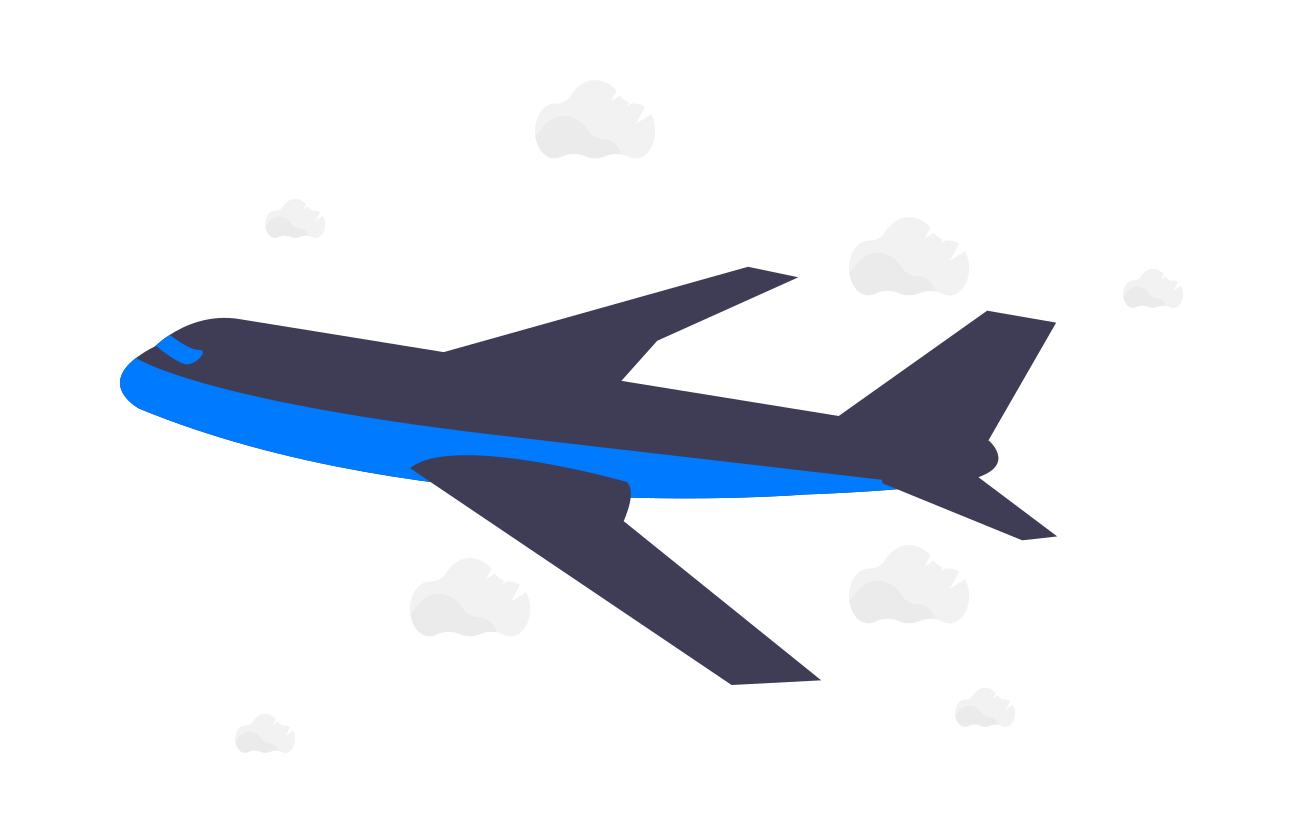
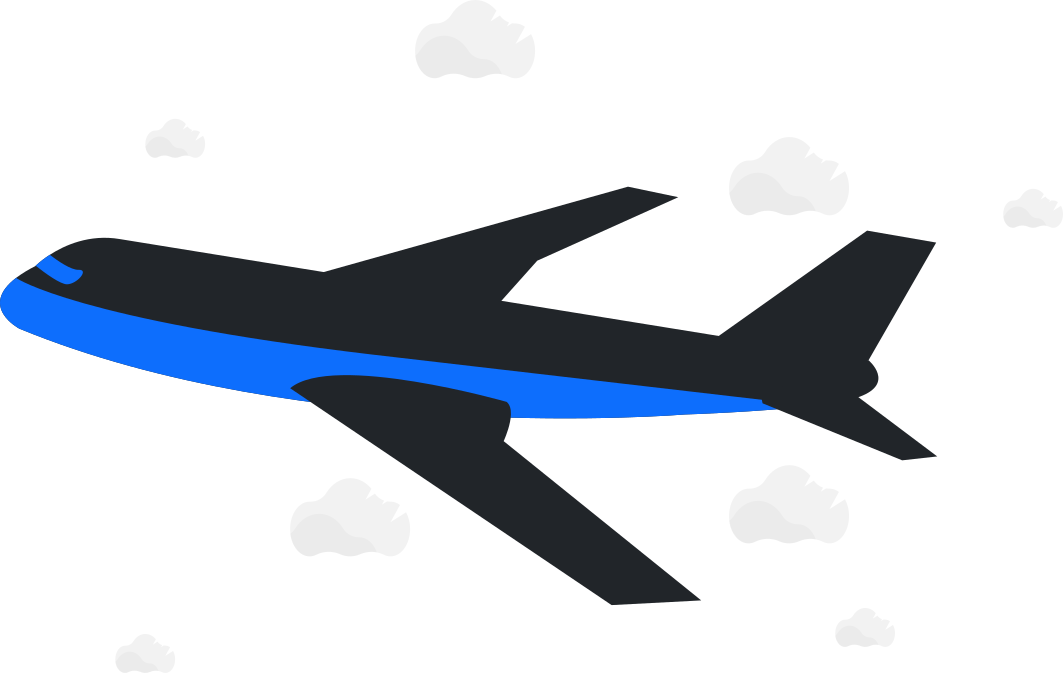
updated aircraft color to match with theme

Changed region(s): [[0.0, 0.2808, 0.9003, 0.9049]]

diff --git a/src/app/screens/auth-page/login/login.component.html b/src/app/screens/auth-page/login/login.component.html
@@ -8,7 +8,9 @@
             <div class="mb-3">
                 <input type="password" class="form-control" id="pwd" placeholder="Password" name="pswd" />
             </div>
+
             <button type="submit" class="btn btn-primary w-100">Submit</button>
+
             <div class="pt-4">
                 <a [routerLink]="['/register']" class="text-white">Create an account</a>
             </div>

diff --git a/src/app/screens/auth-page/auth-page.component.html b/src/app/screens/auth-page/auth-page.component.html
@@ -4,7 +4,7 @@
             <div>
                 <h1 class="fw-bold title">Ryuku Airlines</h1>
                 <h5 class="fw-bold title">We go above and beyond</h5>
-                <div class=" bg-primary">
+                <div class="">
                     <img src="/assets/aircraft.png">
                 </div>
             </div>

diff --git a/src/app/screens/auth-page/auth-page.component.scss b/src/app/screens/auth-page/auth-page.component.scss
@@ -21,7 +21,3 @@ img {
 .left {
     width: 60%;
 }
-
-a {
-    text-decoration: none !important;
-}
